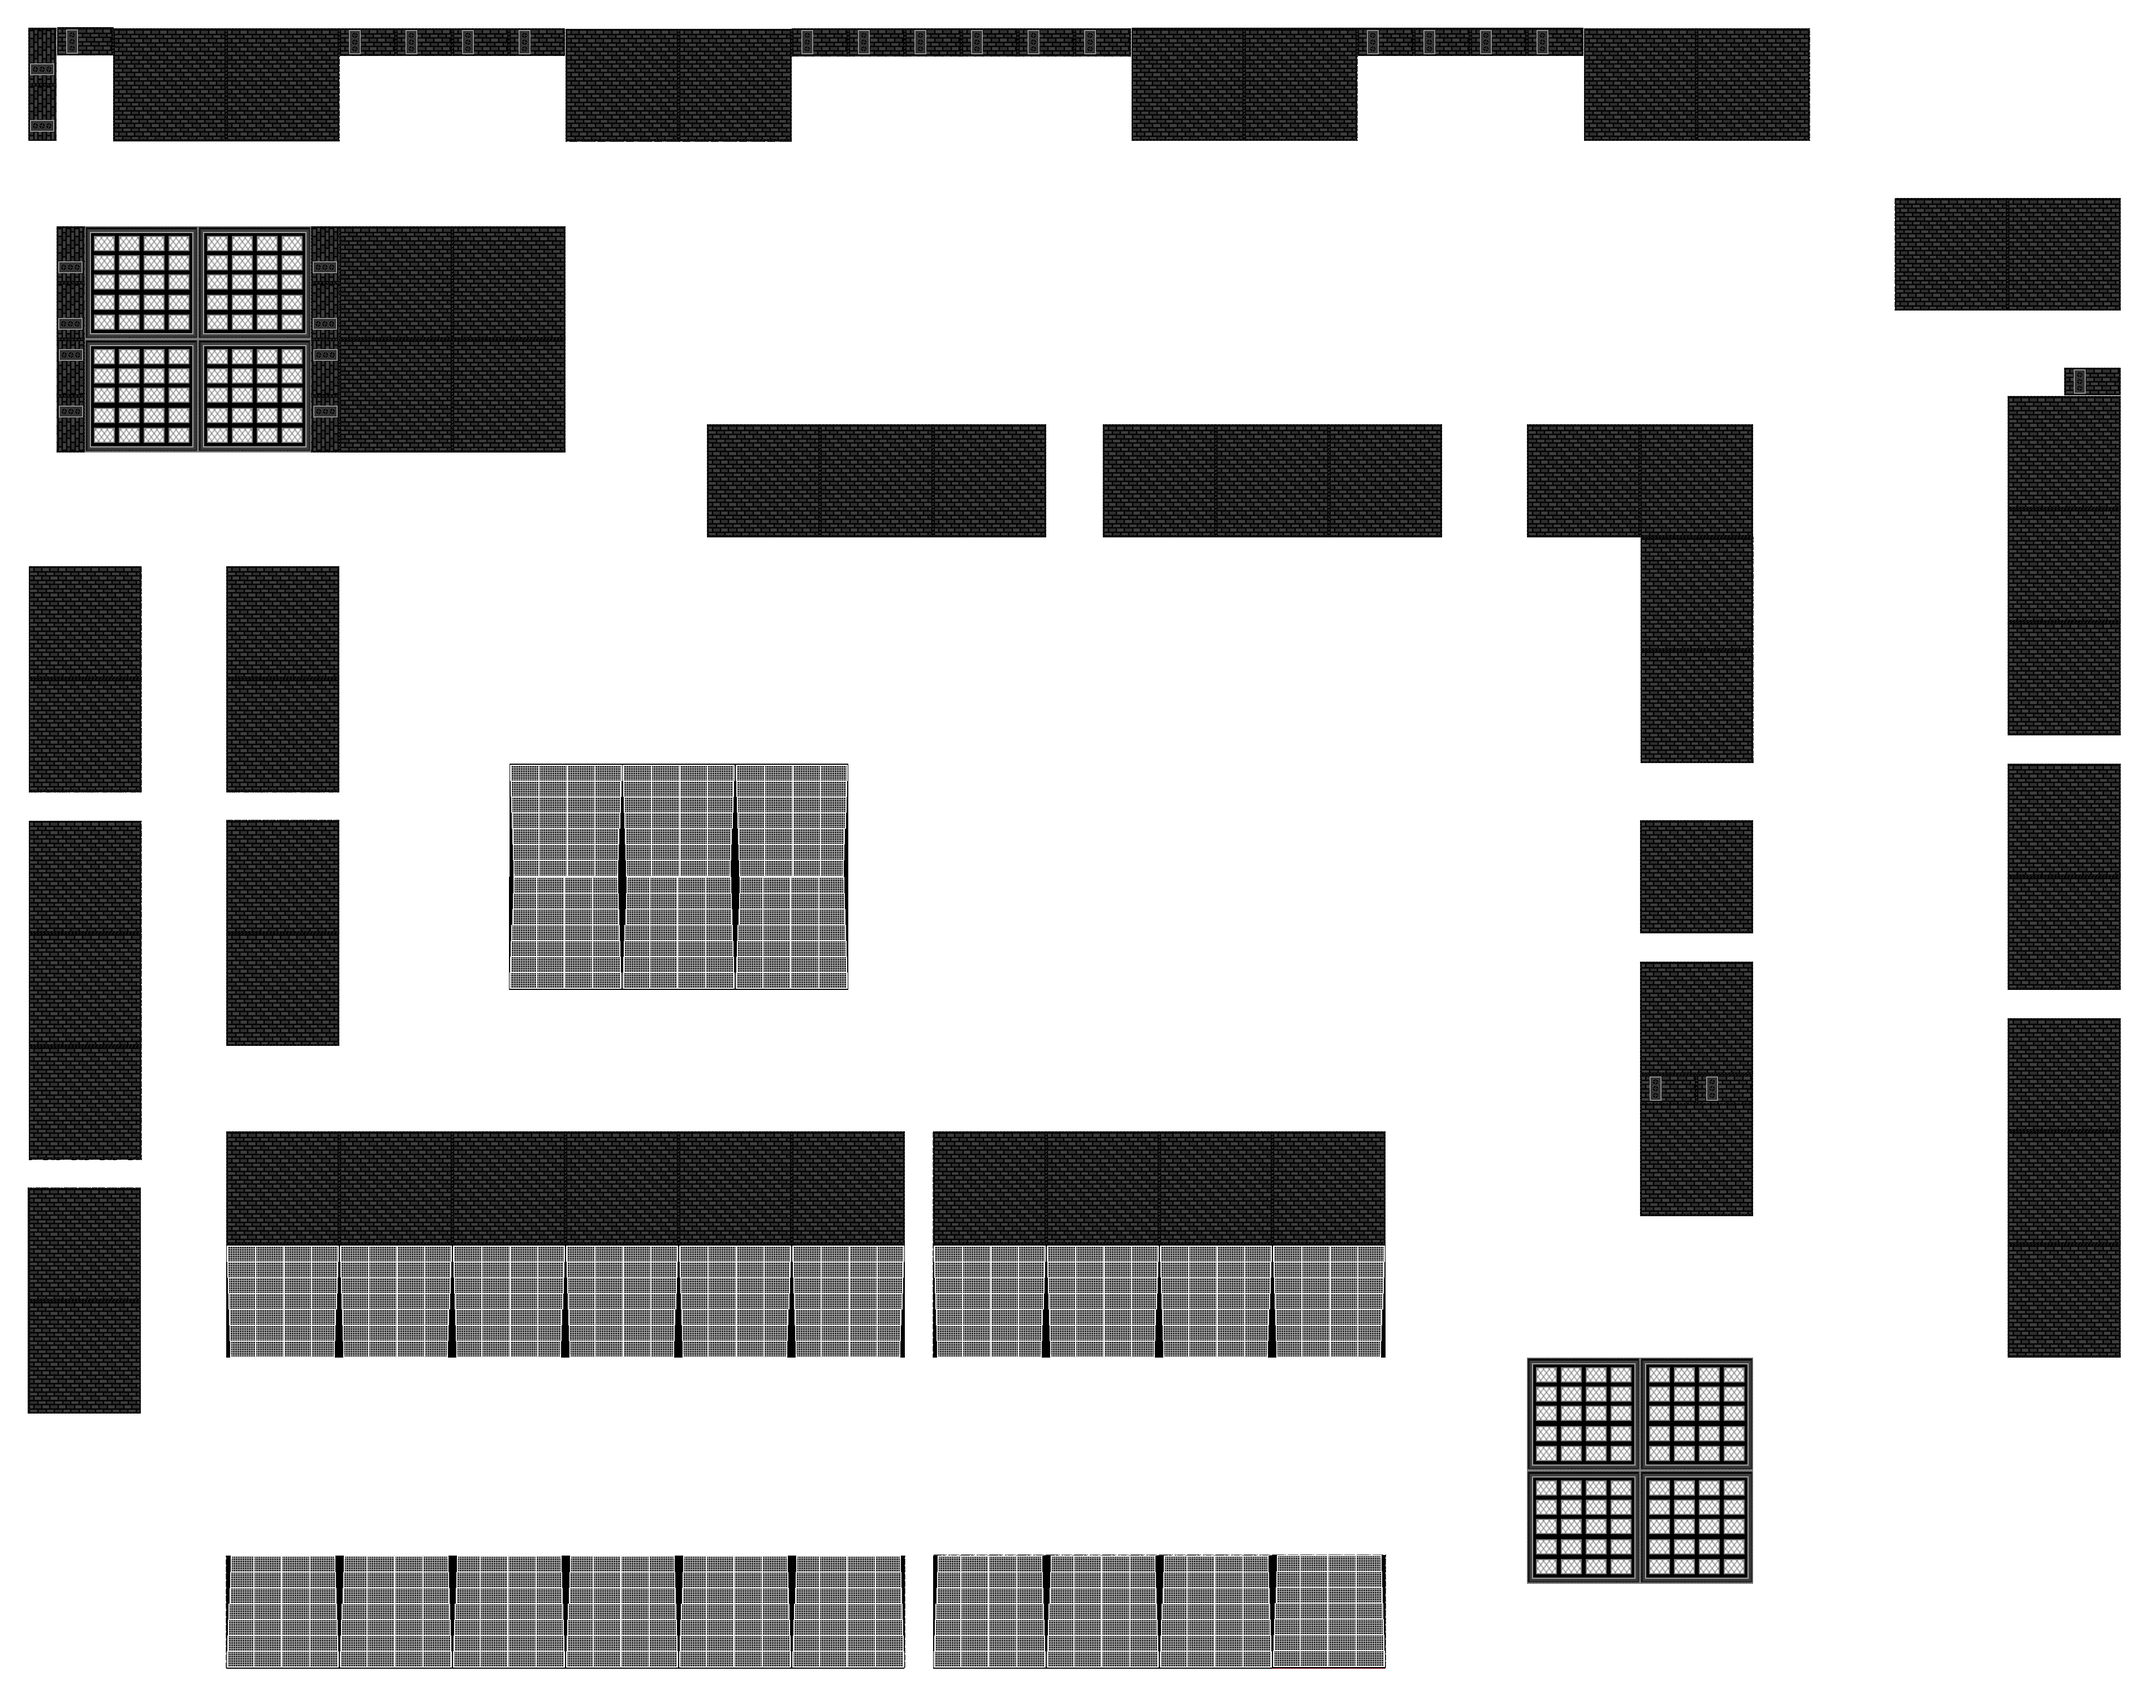
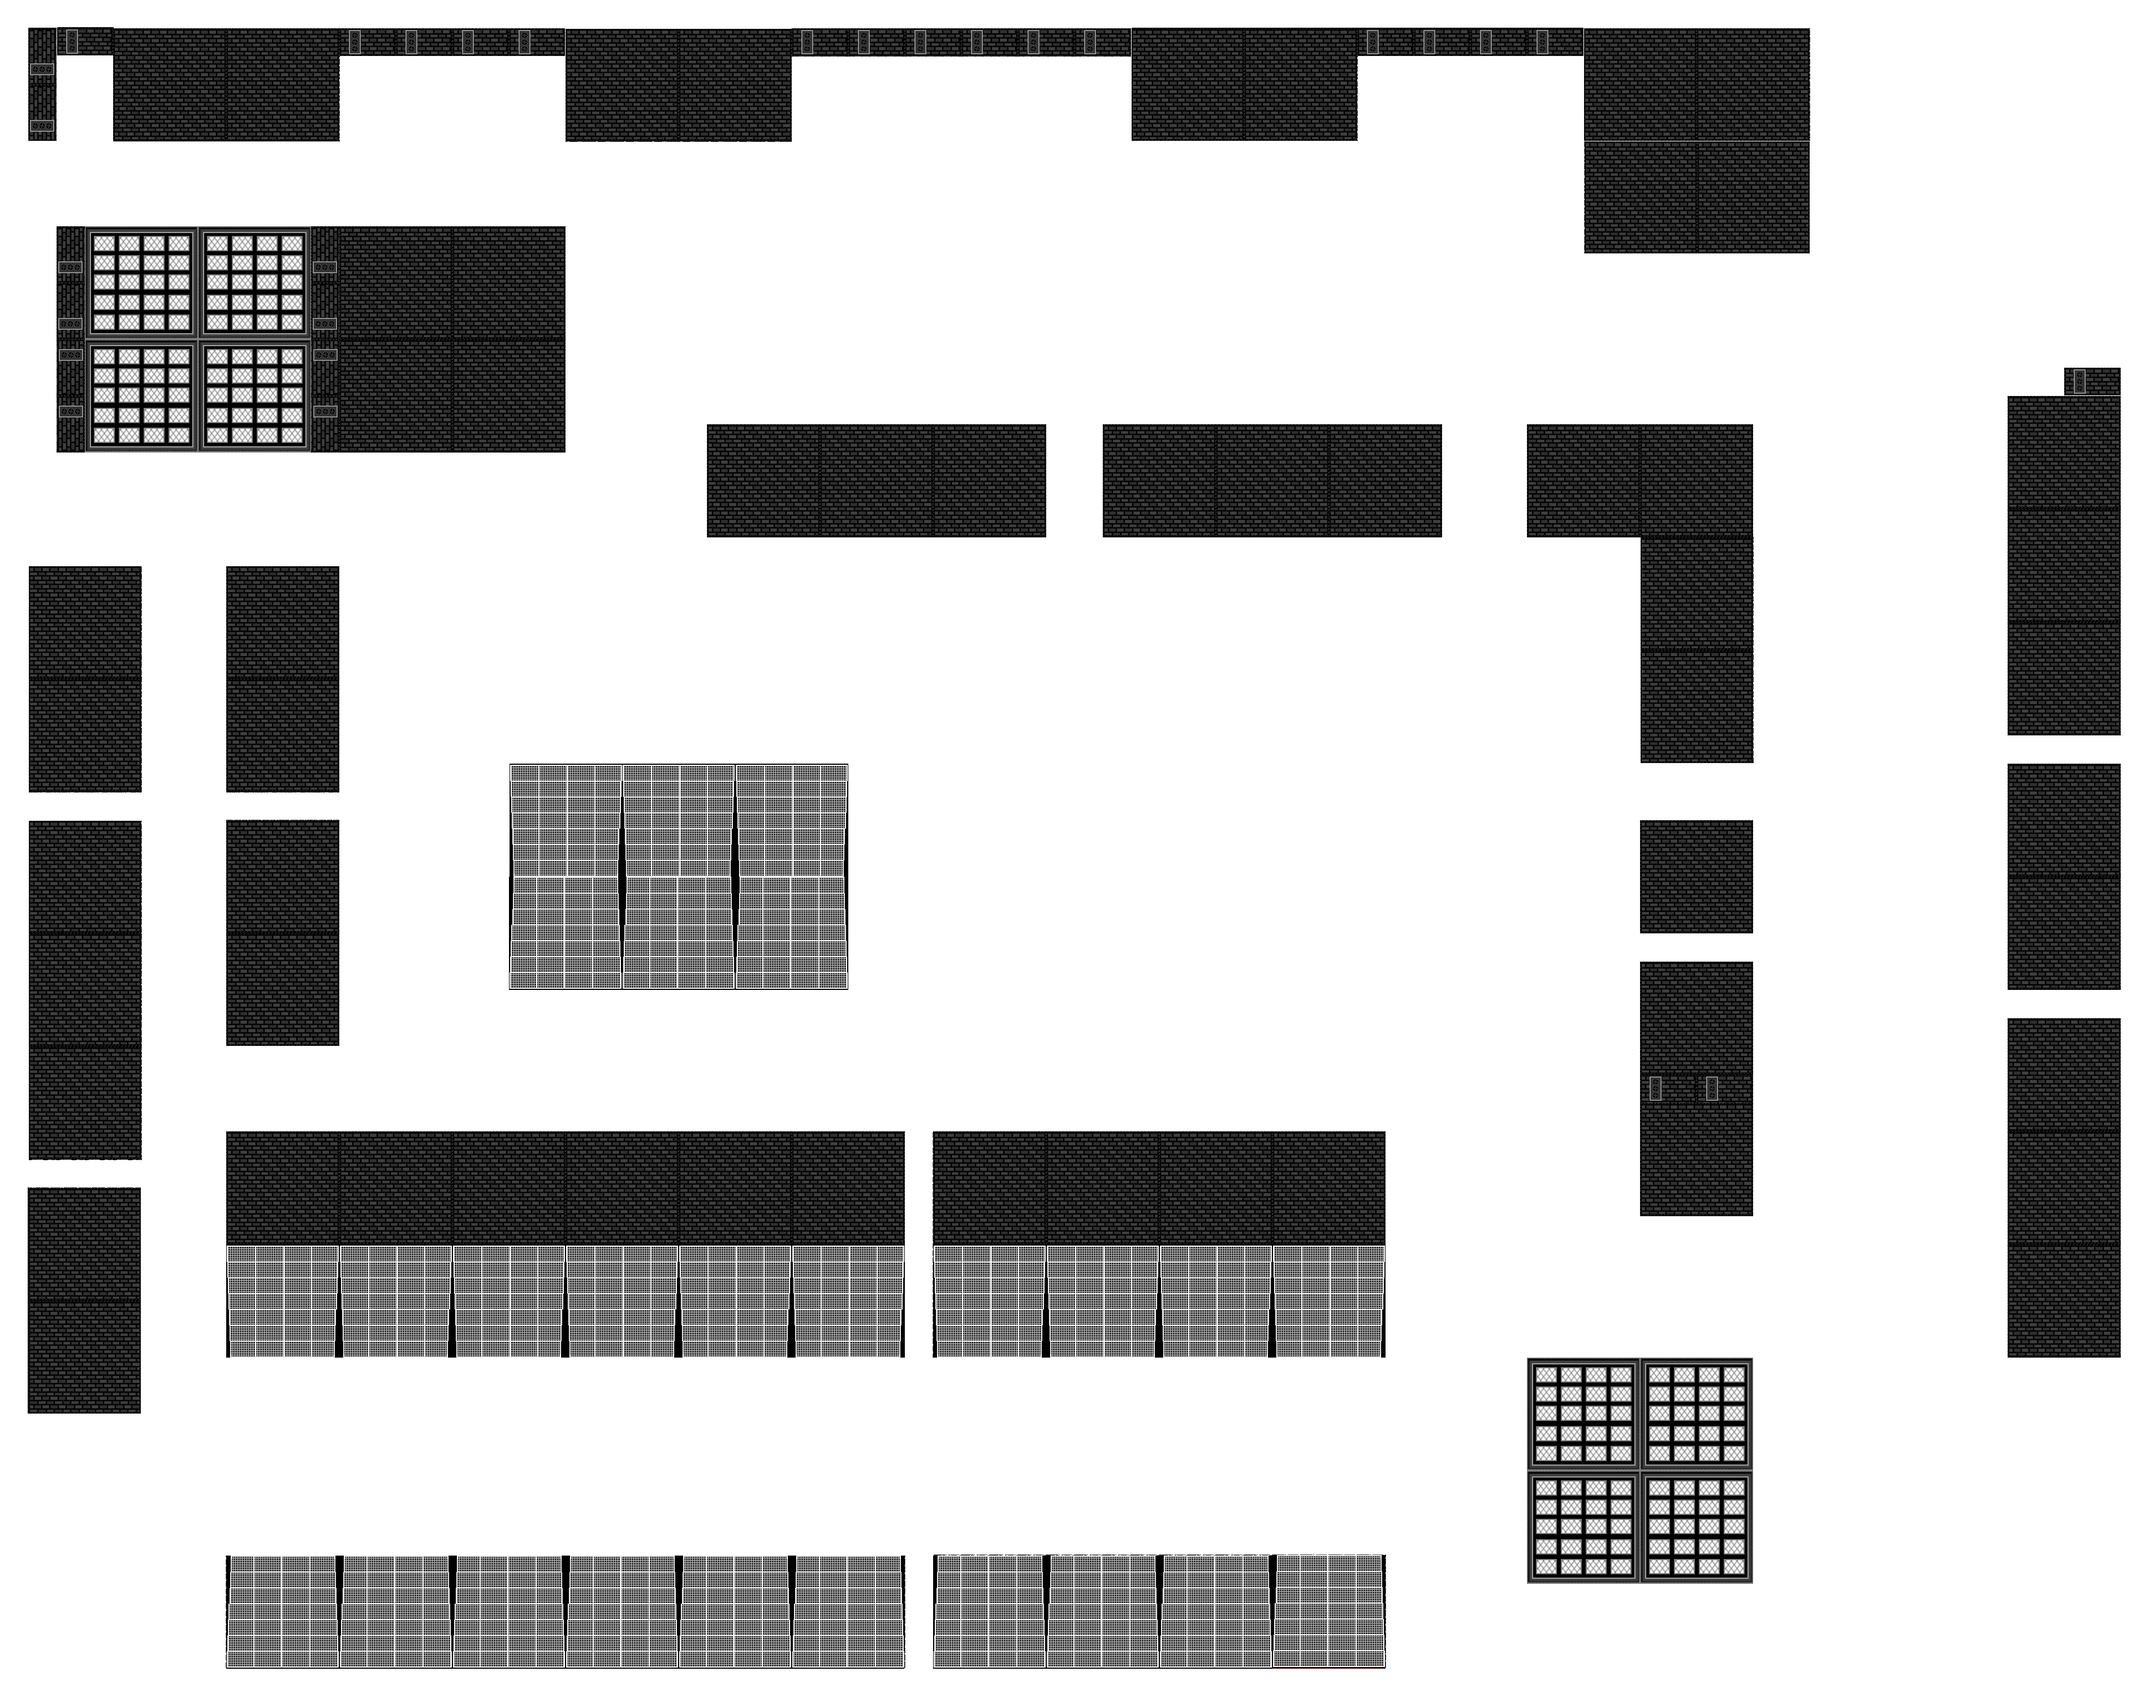
Fixed the map

Changed region(s): [[0.7142, 0.062, 0.9937, 0.186]]

diff --git a/Sombi/Sombi/FloatingTextures.cs b/Sombi/Sombi/FloatingTextures.cs
@@ -60,8 +60,8 @@ namespace Sombi
         {
             spriteBatch.Draw(TextureLibrary.tankTex, new Vector2(150, 2700), null, Color.White, angle = MathHelper.ToRadians(180), new Vector2(TextureLibrary.tankTex.Width / 2, TextureLibrary.tankTex.Height / 2), 1f, SpriteEffects.None, 0f);
             spriteBatch.Draw(TextureLibrary.busTex, new Vector2(1500, 1450), null, Color.White, 0, Vector2.Zero, 1f, SpriteEffects.None, 0f);
-            spriteBatch.Draw(TextureLibrary.hqTentTex, new Vector2(3200, 0), null, Color.White, 0, Vector2.Zero, 1f, SpriteEffects.None, 0f);
-            //spriteBatch.Draw(TextureLibrary.tent, new Vector2(950, 50), null, Color.White, 0, Vector2.Zero, 1f, SpriteEffects.None, 0f);
+            //spriteBatch.Draw(TextureLibrary.hqTentTex, new Vector2(3200, 0), null, Color.White, 0, Vector2.Zero, 1f, SpriteEffects.None, 0f);
+            spriteBatch.Draw(TextureLibrary.medicTentTex, new Vector2(3200, 50), null, Color.White, 0, Vector2.Zero, 1f, SpriteEffects.None, 0f);
             spriteBatch.Draw(TextureLibrary.Buildings, Vector2.Zero, Color.White);
             DrawClouds(spriteBatch);
         }
